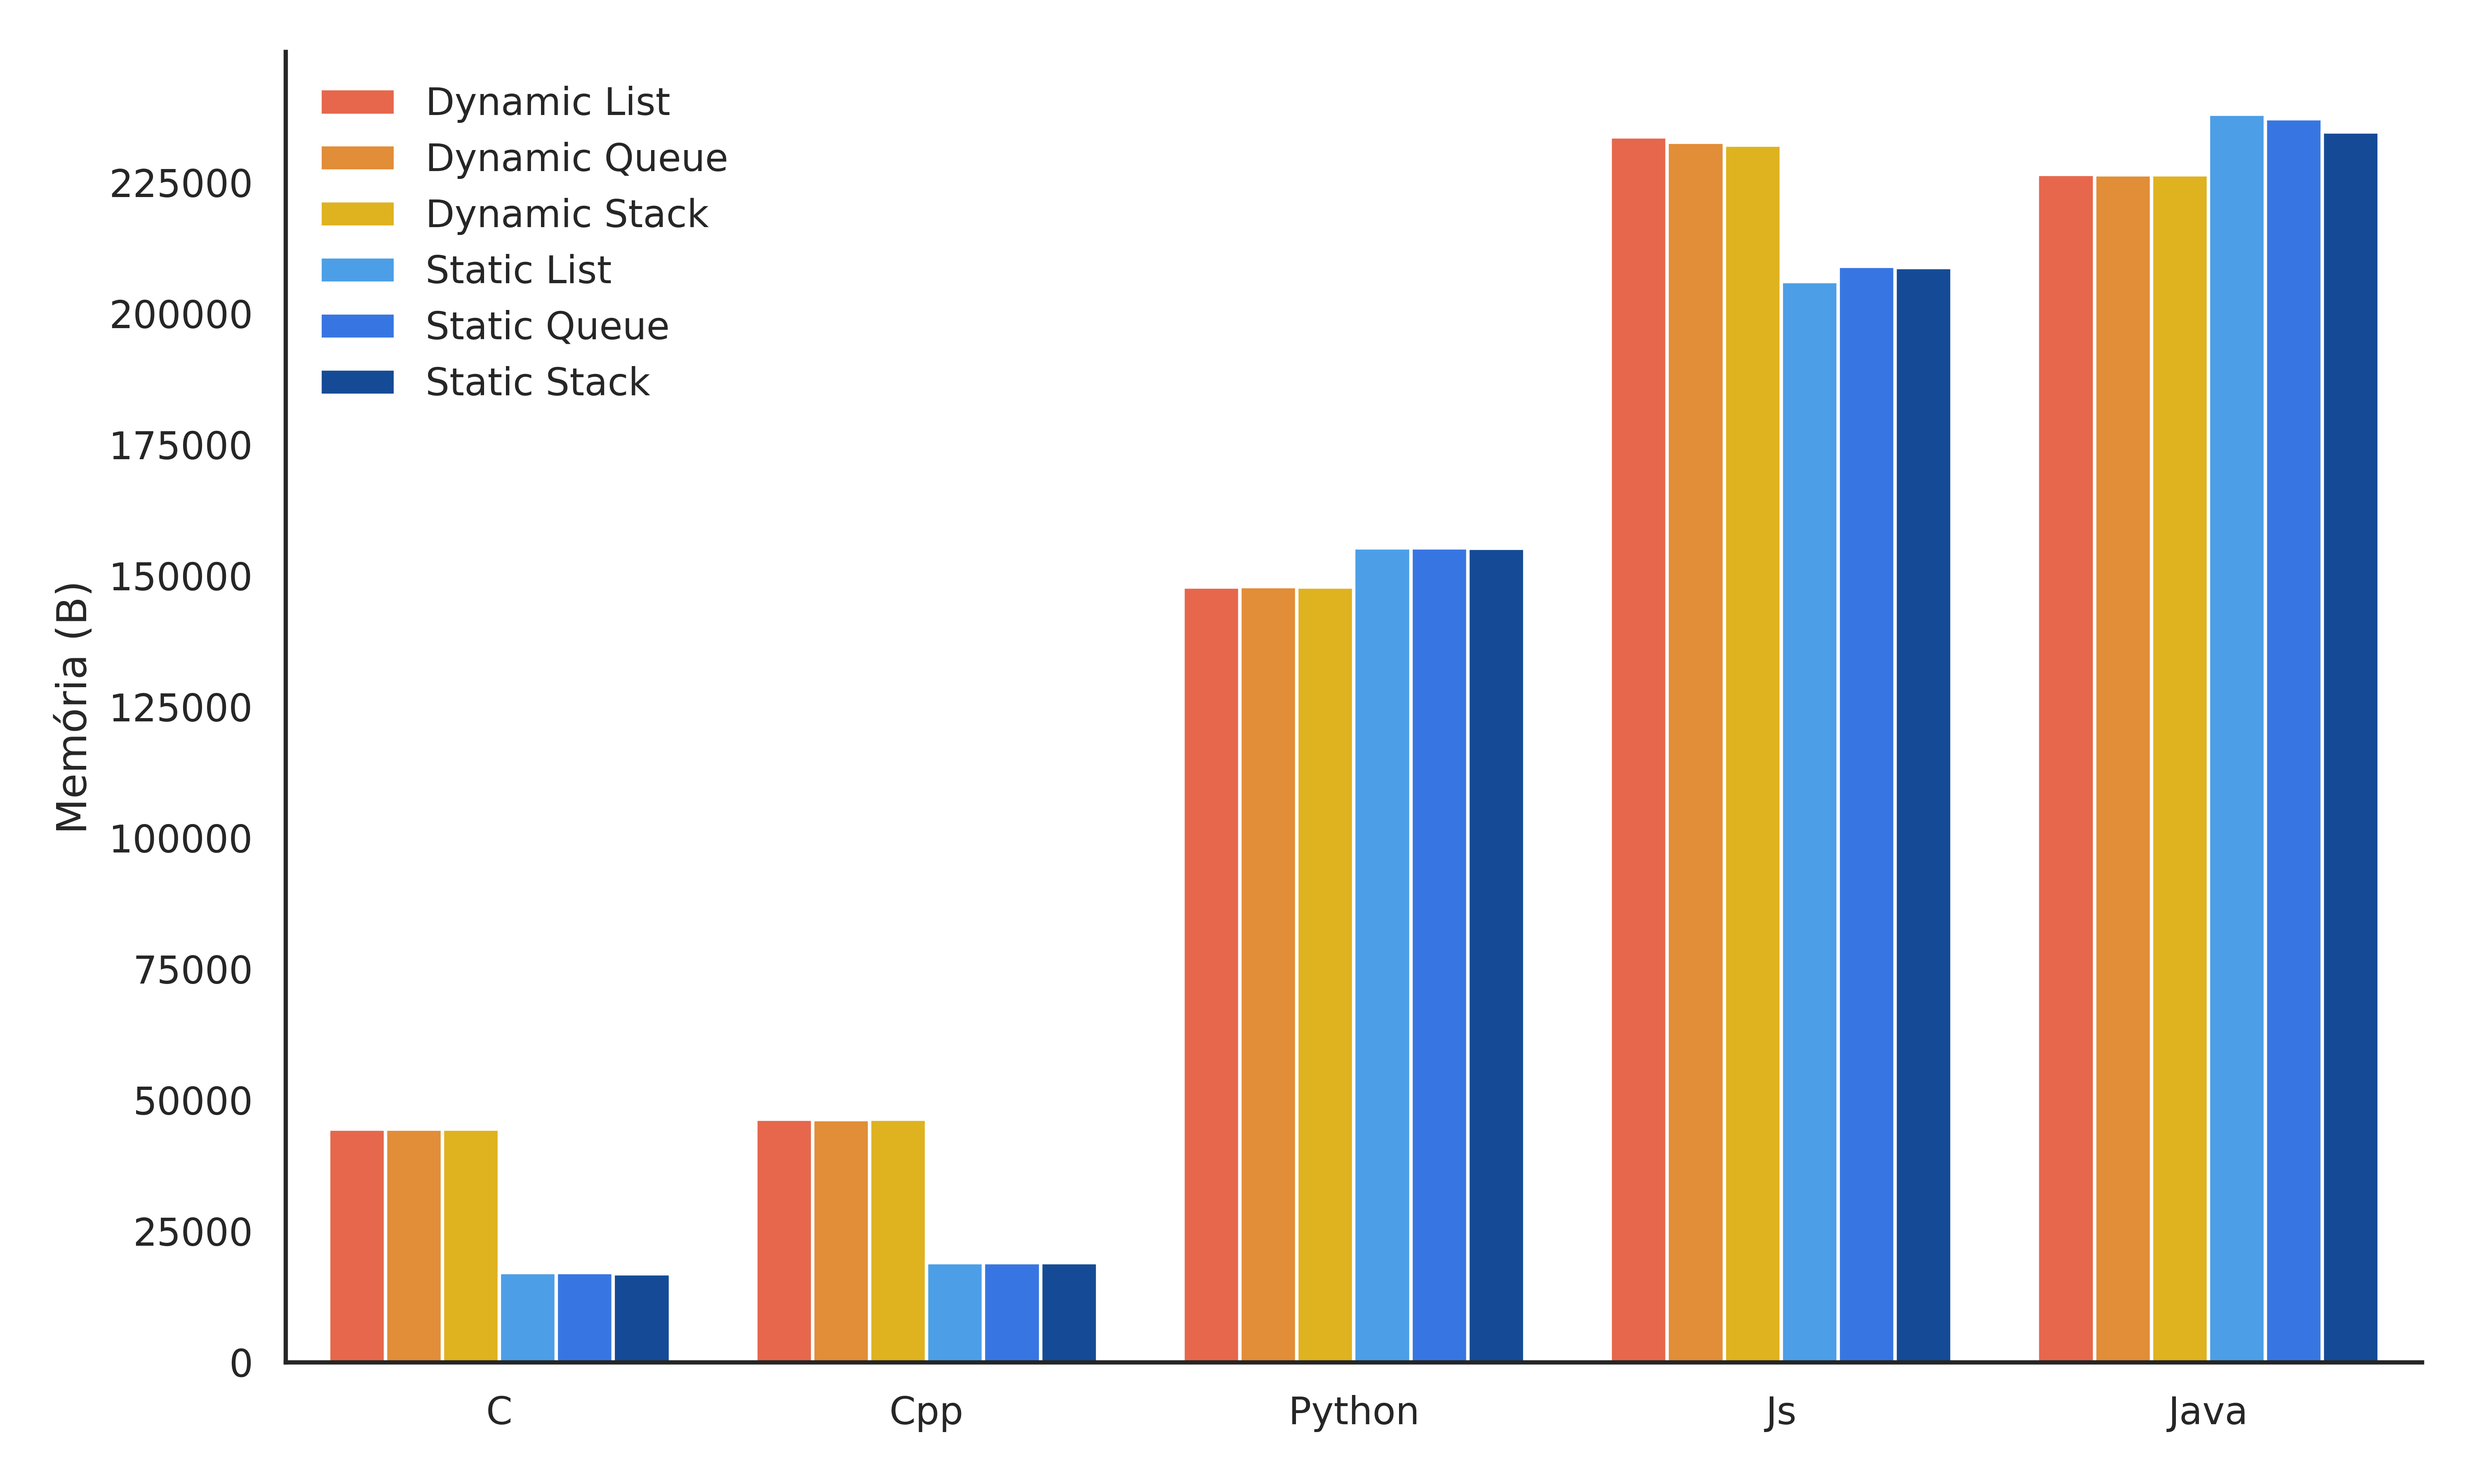
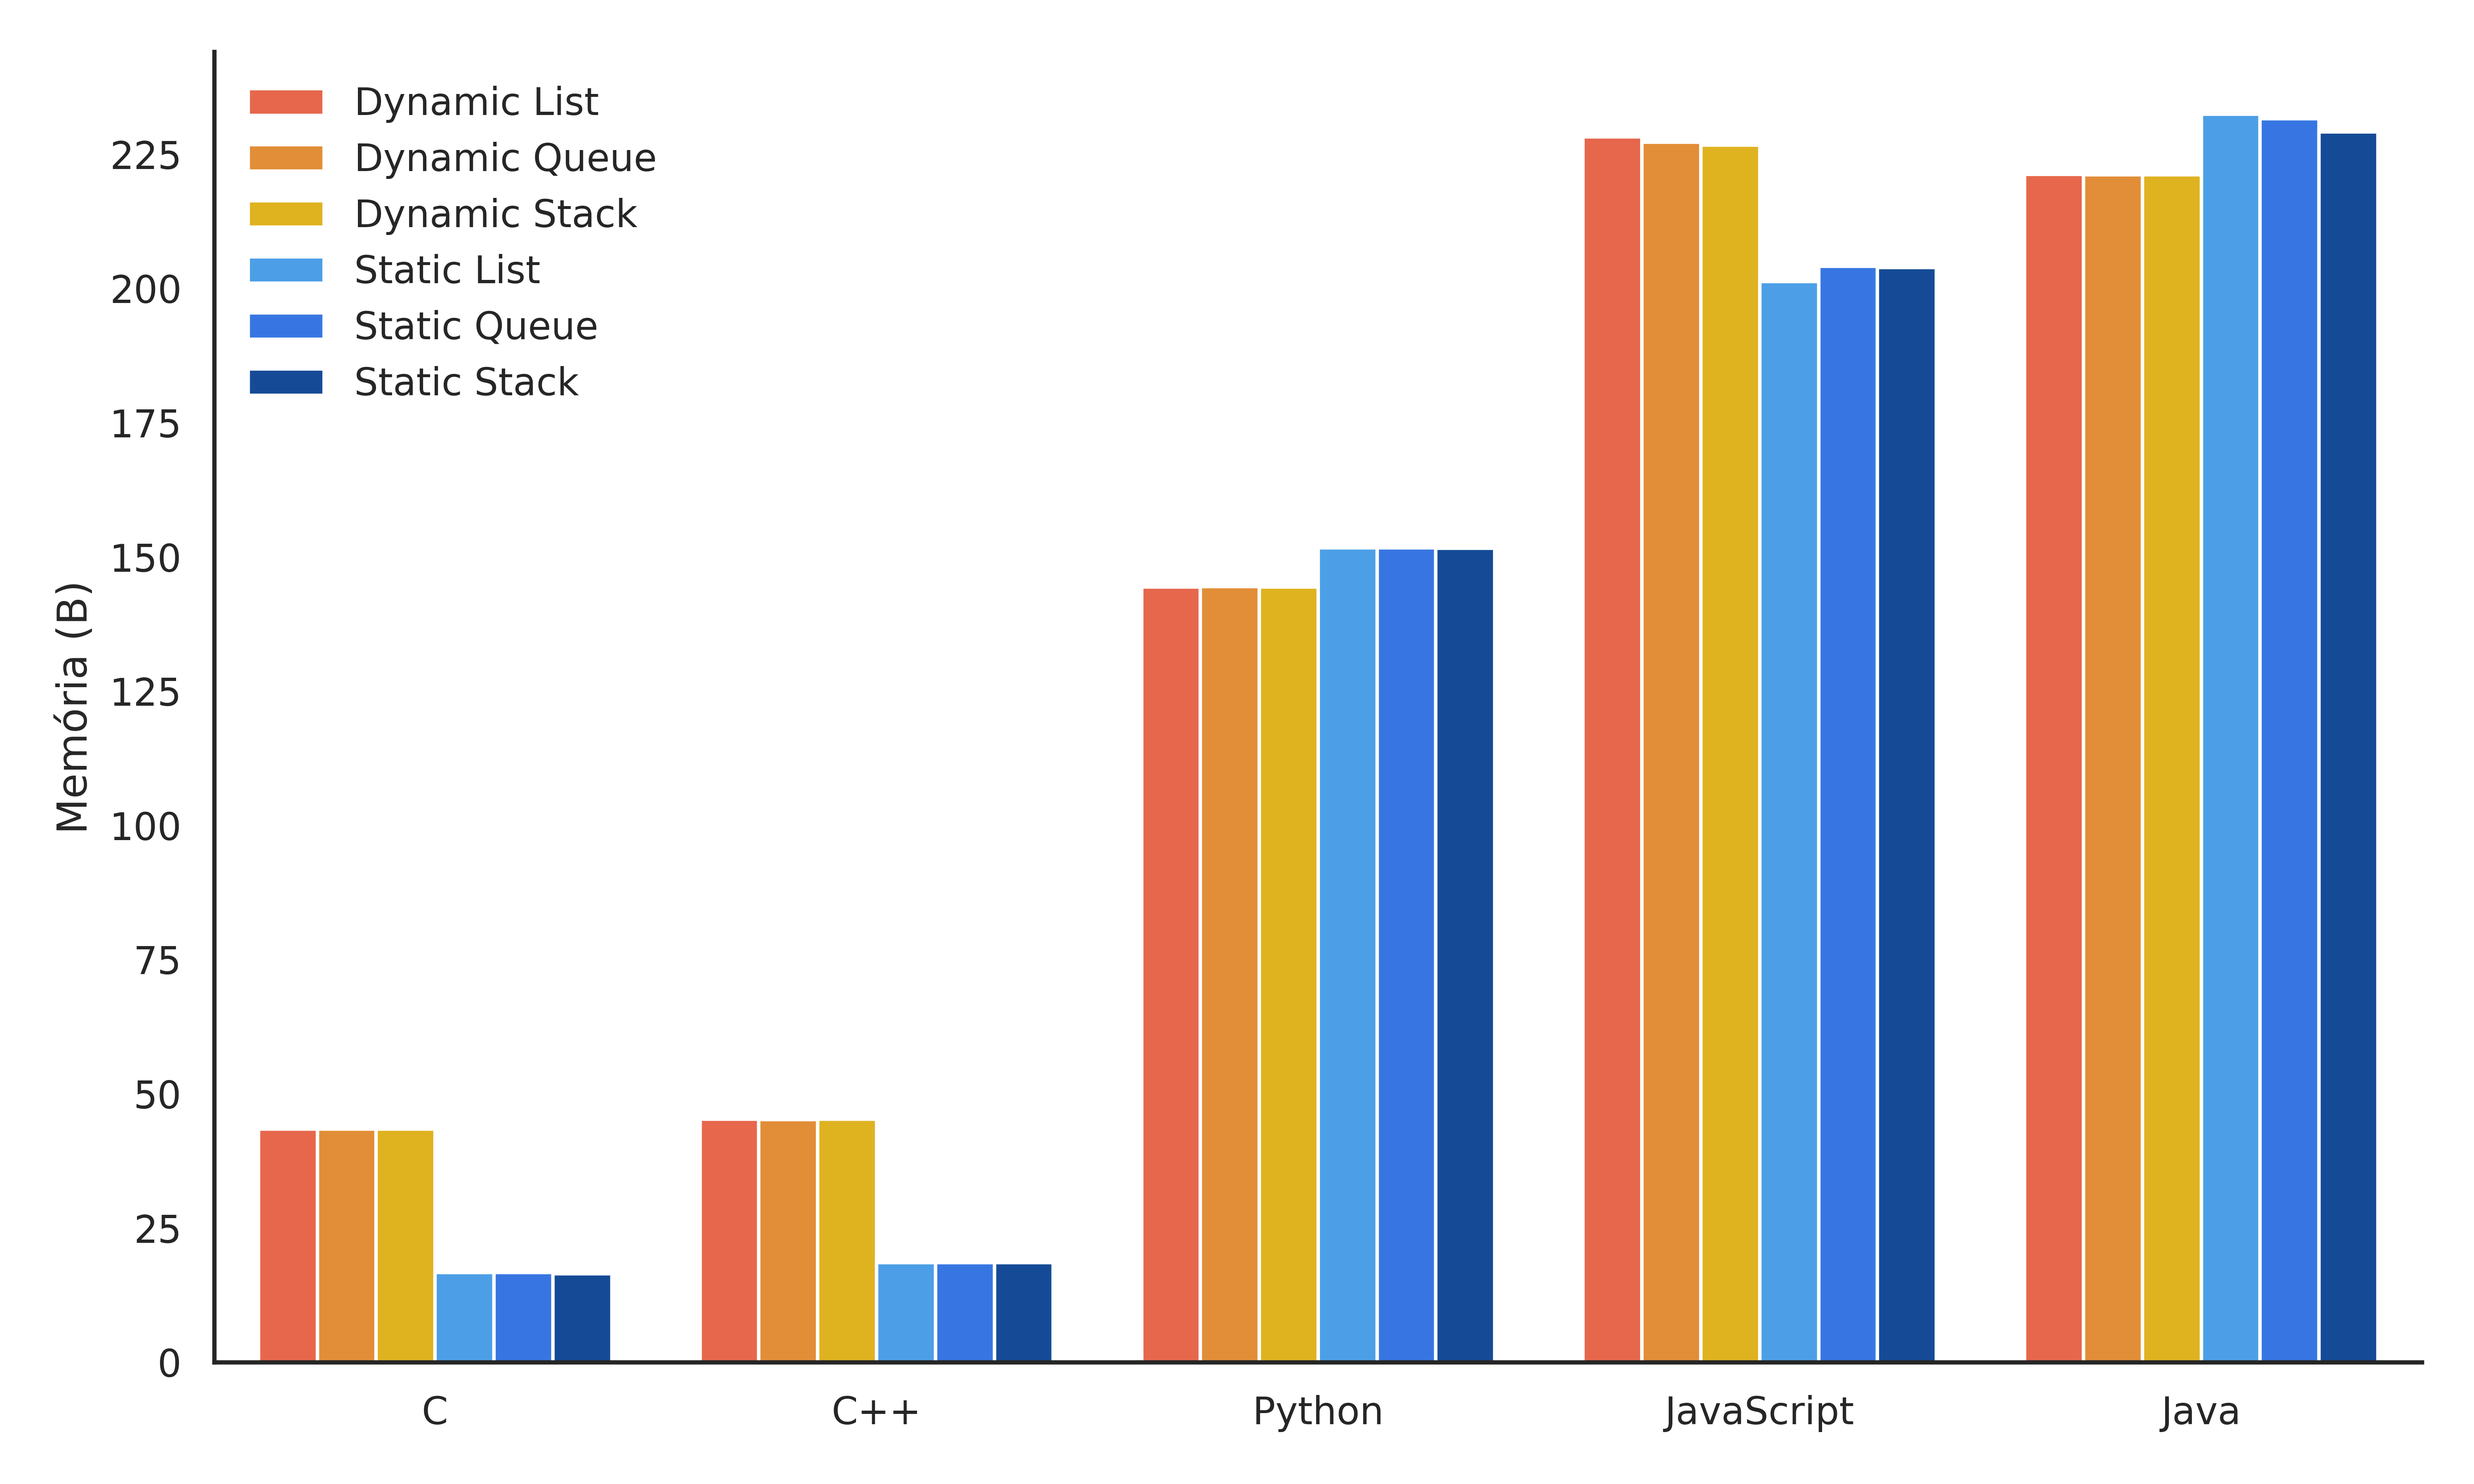
Feito ajustes nos gráficos

diff --git a/Analytics/plot_diferent_inputs.py b/Analytics/plot_diferent_inputs.py
@@ -2,58 +2,67 @@ import pandas as pd
 import seaborn as sns
 import matplotlib.pyplot as plt
 
-# Dados
-dados = pd.DataFrame({
-    "Volume": [100, 1_000, 10_000, 100_000, 1_000_000] * 4,
-    "Tempo (s)": (
-        [0.000236, 0.002657, 0.055648, 0.554700, 5.223232] +
-        [0.000423, 0.004692, 0.062784, 0.650361, 6.938603] +
-        [0.000106, 0.001450, 0.026315, 0.297402, 3.297343] +
-        [0.000188, 0.003278, 0.034563, 0.370120, 4.715385]
-    ),
-    "Cenário": (
-        ["GRA-Static"]*5 +
-        ["GRA-Dynamic"]*5 +
-        ["GRB-Static"]*5 +
-        ["GRB-Dynamic"]*5
+def plotar_tempo_static_list():
+    dados = pd.DataFrame({
+        "Volume": [100, 1_000, 10_000, 100_000, 1_000_000] * 3,
+        "Tempo (s)": [
+            0.000106, 0.001450, 0.026315, 0.297402, 3.297343,  # Baixa desordem
+            0.000117, 0.002395, 0.045544, 0.412003, 4.117676,  # Ratings
+            0.000236, 0.002657, 0.055648, 0.554700, 5.223232,  # Timestamps
+        ],
+        "Cenário": (
+            ["Baixa Desordem"] * 5 +
+            ["Ratings"] * 5 +
+            ["Timestamps"] * 5
+        )
+    })
+    _plotar_tempo(dados, 'static_list_comparacao_tempo.png')
+
+def plotar_tempo_dynamic_list():
+    dados = pd.DataFrame({
+        "Volume": [100, 1_000, 10_000, 100_000, 1_000_000] * 3,
+        "Tempo (s)": [
+            0.000188, 0.003278, 0.034563, 0.370120, 4.715385,  # Baixa desordem
+            0.000354, 0.004094, 0.056707, 0.487099, 5.794625,  # Ratings
+            0.000423, 0.004692, 0.062784, 0.650361, 6.938603,  # Timestamps
+        ],
+        "Cenário": (
+            ["Baixa Desordem"] * 5 +
+            ["Ratings"] * 5 +
+            ["Timestamps"] * 5
+        )
+    })
+    _plotar_tempo(dados, 'dynamic_list_comparacao_tempo.png')
+
+def _plotar_tempo(dados: pd.DataFrame, nome_arquivo: str):
+    sns.set_theme(style="white")
+    plt.rcParams.update({"font.size": 14})
+
+    plt.figure(figsize=(10, 6))
+    ax = sns.lineplot(
+        data=dados,
+        x="Volume",
+        y="Tempo (s)",
+        hue="Cenário",
+        style="Cenário",
+        markers=['o', 's', '^'],
+        dashes=False
     )
-})
 
-# Configurações globais
-sns.set_theme(style="white")
-plt.rcParams.update({'font.size': 14})
+    ax.set_xscale('log')
+    ax.set_yscale('log')
+    ax.set_xlabel('')
+    ax.set_ylabel('Tempo (s)')
 
-# Plot
-plt.figure(figsize=(10, 6))
-ax = sns.lineplot(
-    data=dados,
-    x="Volume",
-    y="Tempo (s)",
-    hue="Cenário",
-    style="Cenário",
-    markers=['o', 's', 'D', '^'],  # um símbolo para cada linha
-    dashes=False
-)
+    ax.spines['top'].set_visible(False)
+    ax.spines['right'].set_visible(False)
+    ax.legend(frameon=False, title='')
+    ax.grid(False)
 
-# Escalas log
-ax.set_xscale('log')
-ax.set_yscale('log')
-ax.set_ylabel('Tempo (s)')
-ax.set_xlabel('')
+    plt.tight_layout()
+    plt.savefig(nome_arquivo, dpi=600)
+    plt.close()
 
-# Remover bordas superior e direita
-ax.spines['top'].set_visible(False)
-ax.spines['right'].set_visible(False)
 
-# Legenda limpa
-leg = ax.legend(frameon=False, title='')
-
-# Ticks x sem rotação
-ax.tick_params(axis='x', rotation=0)
-
-# Sem grade
-ax.grid(False)
-
-plt.tight_layout()
-plt.savefig('time/diferent_inputs.png', dpi=600)
-plt.close()
+plotar_tempo_static_list()
+plotar_tempo_dynamic_list()

diff --git a/Analytics/plot.py b/Analytics/plot.py
@@ -103,7 +103,9 @@ def plotar_memoria_por_estrutura_e_volume(df_memoria: pd.DataFrame, volume: str)
     plt.rcParams.update({'font.size': 14})
 
     df_filtro = df_memoria[df_memoria['Volume'] == volume].copy()
-    df_filtro[estruturas] = df_filtro[estruturas].apply(pd.to_numeric, errors='coerce')
+    df_filtro[estruturas] = df_filtro[estruturas].apply(
+        pd.to_numeric, errors='coerce'
+    ) / 1024.0
     df_filtro['total_mem'] = df_filtro[estruturas].sum(axis=1)
     ordem_linguagens = df_filtro.sort_values('total_mem')['Linguagem'].unique()
 
@@ -273,6 +275,10 @@ def plotar_todas_memorias_aglomerado(df_memoria: pd.DataFrame):
 
         df_filtro = df_memoria[df_memoria['Volume'] == volume].copy()
         df_filtro[estruturas] = df_filtro[estruturas].apply(pd.to_numeric, errors='coerce')
+        df_filtro[estruturas] = df_filtro[estruturas].apply(
+            pd.to_numeric, errors='coerce'
+        ) / 1024.0
+
         df_filtro['total_mem'] = df_filtro[estruturas].sum(axis=1)
         ordem_linguagens = df_filtro.sort_values('total_mem')['Linguagem'].unique()
 
@@ -374,7 +380,7 @@ def plotar_memoria_static_list_10k(df_consumo: pd.DataFrame):
     df_filtro = df_consumo[df_consumo['Volume'] == "10K"].copy()
 
     # Converter a coluna static_list para numérica (é inteiro, não precisa multiplicar)
-    df_filtro['static_list'] = pd.to_numeric(df_filtro['static_list'], errors='coerce')
+    df_filtro['static_list'] = pd.to_numeric(df_filtro['static_list'], errors='coerce') / 1024.0
 
     # Ordenar para barras em ordem decrescente (de cima para baixo)
     df_filtro = df_filtro.sort_values('static_list', ascending=False)
@@ -398,7 +404,7 @@ def plotar_memoria_static_list_10k(df_consumo: pd.DataFrame):
     )
 
     ax.set_xlabel('')
-    ax.set_ylabel('Memória (bytes)')
+    ax.set_ylabel('Memória (MB)')
     ax.yaxis.set_major_locator(ticker.MaxNLocator(nbins=10))
 
     ax.spines['top'].set_visible(False)

diff --git a/Analytics/main.py b/Analytics/main.py
@@ -2,13 +2,12 @@ from carrega_dados import carregar_csv_completo
 import plot
 
 df_tempos, df_consumo = carregar_csv_completo('dados.csv')
-
-# Gerar gráficos separados para todos os volumes
+# print(df_consumo)
+# # Gerar gráficos separados para todos os volumes
 # volumes = df_tempos['Volume'].unique()
 # for volume in volumes:
 #     plot.plotar_tempo_por_estrutura_e_volume(df_tempos, volume)
 #     plot.plotar_memoria_por_estrutura_e_volume(df_consumo, volume)
 
-# # Gerar gráfico aglomerado com todos os volumes
-plot.plotar_tempo_static_list_10k(df_tempos)
+# plot.plotar_todos_volumes_aglomerado(df_tempos)
 plot.plotar_memoria_static_list_10k(df_consumo)

diff --git a/Java/src/Main.java b/Java/src/Main.java
@@ -1,7 +1,6 @@
 import java.util.ArrayList;
-import java.util.concurrent.TimeUnit;
 
-public class StaticListTs {
+public class Main {
     public static void main(String[] args) throws InterruptedException {
         TimSort timSort = new TimSort();
         ArrayList<Integer> arr = new ArrayList<>(); 

diff --git a/Results/PyPreOrdened.MD b/Results/PyPreOrdened.MD
@@ -1,6 +1,8 @@
 # Resultados de Performance
 
-Este documento apresenta os resultados obtidos durante a execução do método para diferentes volumes de dados e diferentes estruturas. A medição foi realizada utilizando o comando `/usr/bin/time -v`.
+Esse documento apresenta as métrica em tempo e memória para execução do algoritimo TimSort em dynamic e static list em diferentes volumes de dados em python. O objetivo é testas como o TimSort se comporta em diferentes inputs: baixa desordem, ratings e timestamps 
+
+# Usando Dados com baixa desordem
 
 ### **dynamic_list**
 | Volume de Dados | Tempo Total (s) | Memória Máxima (kbytes) |
@@ -21,3 +23,44 @@ Este documento apresenta os resultados obtidos durante a execução do método p
 | 100K            | 0.297402           | 24860                     |
 | 1M              | 3.297343           | 154912                    |
 
+# Usando Ratings
+
+### **dynamic_list**
+| Volume de Dados | Tempo Total (s) | Memória Máxima (kbytes) |
+|-----------------|-----------------|------------------------|
+| 100             | 0.000354        | 11136                      |
+| 1K              | 0.004094           | 11213                      |
+| 10K             | 0.056707           | 12544                      |
+| 100K            | 0.487099           | 24550                      |
+| 1M              | 5.794625          | 147771                    |
+
+
+### **static_list**
+| Volume de Dados | Tempo Total (s) | Memória Máxima (kbytes) |
+|-----------------|-----------------|------------------------|
+| 100             | 0.000117          | 11100                      |
+| 1K              | 0.002395           | 11226                     |
+| 10K             | 0.045544           | 12493                     |
+| 100K            | 0.412003           | 25084                     |
+| 1M              | 4.117676           | 155265                    |
+
+# Usando Timestamp
+
+### **dynamic_list**
+| Volume de Dados | Tempo Total (s) | Memória Máxima (kbytes) |
+|-----------------|-----------------|------------------------|
+| 100             | 0.000423         | 11299                     |
+| 1K              | 0.004692          | 11379                     |
+| 10K             | 0.062784          | 12493                     |
+| 100K            | 0.650361          | 24669                     |
+| 1M              | 6.938603          | 147862                    |
+
+
+### **static_list**
+| Volume de Dados | Tempo Total (s) | Memória Máxima (kbytes) |
+|-----------------|-----------------|------------------------|
+| 100             | 0.000236          | 11200                     |
+| 1K              | 0.002657          | 11341                     |
+| 10K             | 0.055648          | 12582                     |
+| 100K            | 0.554700          | 25206                     |
+| 1M              | 5.223232          | 155361                    |

diff --git a/Results/Js.MD b/Results/Js.MD
@@ -22,8 +22,6 @@ Este documento apresenta os resultados obtidos durante a execução do método p
 | 100K            | 0.088463           | 98944                      |
 | 1M              | 0.796932           | 232669                     |
 
-
-
 ### **dynamic_stack**
 | Volume de Dados | Tempo Total (s) | Memória Máxima (kbytes) |
 |-----------------|-----------------|------------------------|
